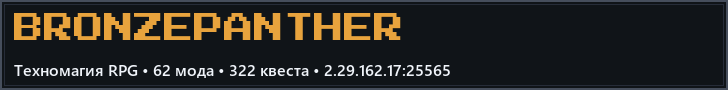
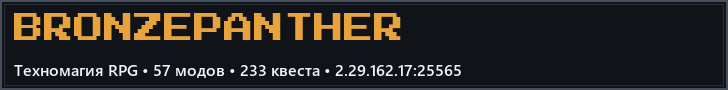
Синхронизация с 1.3.4: 57 модов, 233 квеста, Mekanism

Changed region(s): [[0.272, 0.7111, 0.6346, 0.8444], [0.2115, 0.7111, 0.2418, 0.8444]]

diff --git a/docs/index.html b/docs/index.html
@@ -4,9 +4,9 @@
 <meta charset="UTF-8">
 <meta name="viewport" content="width=device-width, initial-scale=1.0">
 <title>BronzePanther — сервер «Техномагия RPG»</title>
-<meta name="description" content="BronzePanther — сервер и сборка «Техномагия RPG»: магия, техника и 322 квеста на NeoForge. Лаунчер ставит всё сам, лицензия не нужна.">
+<meta name="description" content="BronzePanther — сервер и сборка «Техномагия RPG»: магия, техника и 233 квеста на NeoForge. Лаунчер ставит всё сам, лицензия не нужна.">
 <meta property="og:title" content="BronzePanther — сервер «Техномагия RPG»">
-<meta property="og:description" content="62 мода, 322 квеста, 20 глав. Thaumaturge, AE2, Powah, Draconic Evolution. Бесплатно, без лицензии.">
+<meta property="og:description" content="57 модов, 233 квеста, 19 глав. Thaumaturge, AE2, Powah, Mekanism. Бесплатно, без лицензии.">
 <meta property="og:image" content="https://bodia229.github.io/bronzepanther-launcher/assets/og-1200x630.png">
 <link rel="icon" href="assets/favicon-64.png">
 <style>
@@ -78,8 +78,8 @@ footer a{color:#c8d0dc}
 
 <section id="about">
   <h2>что это</h2>
-  <p>BronzePanther — наш сервер по сборке <b>«Техномагия RPG»</b>: магия и техника в одном мире, а путь игрока ведут 322 квеста в 20 главах. Начинался как сервер для своих на домашнем компьютере, теперь живёт на отдельном VPS и открыт для всех.</p>
-  <p>Здесь Thaumaturge с её аспектами и собственным измерением Outer Lands соседствует с Applied Energistics 2 и Powah, а в конце пути ждёт Draconic Evolution и Twilight Forest. Никакого доната — играем бесплатно, лицензия Minecraft не нужна: у проекта своя система аккаунтов со скинами.</p>
+  <p>BronzePanther — наш сервер по сборке <b>«Техномагия RPG»</b>: магия и техника в одном мире, а путь игрока ведут 233 квеста в 19 главах. Начинался как сервер для своих на домашнем компьютере, теперь живёт на отдельном VPS и открыт для всех.</p>
+  <p>Здесь Thaumaturge с её аспектами и собственным измерением Outer Lands соседствует с Applied Energistics 2 и Powah, а в конце пути ждёт Mekanism и Twilight Forest. Никакого доната — играем бесплатно, лицензия Minecraft не нужна: у проекта своя система аккаунтов со скинами.</p>
   <div class="btns">
     <a class="btn" href="https://github.com/bodia229/bronzepanther-launcher/releases/latest">скачать лаунчер (windows)</a>
     <a class="btn sec" href="https://mcsrvstat.us/server/2.29.162.17:25565" target="_blank" rel="noopener">статус сервера</a>
@@ -98,21 +98,22 @@ footer a{color:#c8d0dc}
 
 <section id="mods">
   <h2>состав сборки</h2>
-  <p>Сборка «Техномагия RPG» 1.3.3: <b>62 мода</b>, <b>322 квеста</b>, <b>20 глав</b>. Minecraft 26.1.2, NeoForge.</p>
+  <p>Сборка «Техномагия RPG» 1.3.4: <b>57 модов</b>, <b>233 квеста</b>, <b>19 глав</b>. Minecraft 26.1.2, NeoForge.</p>
   <table>
     <tr><th>магия</th><td>Thaumaturge (аспекты, исследования, измерение Outer Lands), Applied Thaumaturge</td></tr>
-    <tr><th>технологии</th><td>Applied Energistics 2 + ExtendedAE, AdvancedAE, беспроводные терминалы; Powah + Advanced Powah; Industrial Neo; Draconic Evolution</td></tr>
-    <tr><th>rpg</th><td>атрибуты и деревья навыков (Puffish Skills), 322 квеста с русскими руководствами</td></tr>
+    <tr><th>технологии</th><td>Applied Energistics 2 + ExtendedAE, AdvancedAE, беспроводные терминалы; Powah + Advanced Powah; Industrial Neo; Mekanism</td></tr>
+    <tr><th>rpg</th><td>атрибуты и деревья навыков (Puffish Skills), 233 квеста с русскими руководствами</td></tr>
     <tr><th>миры</th><td>Twilight Forest с боссами, переработанные Незер и Энд, Outer Lands</td></tr>
     <tr><th>удобства</th><td>рюкзаки Sophisticated, карты Xaero (мини-карта и карта мира), JEI, сортировка инвентаря</td></tr>
     <tr><th>графика</th><td>шейдеры Iris + BSL; Sodium, Lithium, ImmediatelyFast — плавно даже на слабых ПК</td></tr>
   </table>
-  <div class="note">Часть модов — собственные: bronzepanther-core, appliedthaumaturge, industrial. Они и делают сборку нашей.</div>
+  <div class="note">Часть модов — собственные: bronzepanther-core, appliedthaumaturge, industrial, bronzepanther-mekanism-emi. Они и делают сборку нашей.</div>
 </section>
 
 <section id="updates">
   <h2>обновления</h2>
   <table>
+    <tr><th>21.11.2026</th><td>1.3.4 — Mekanism и своя EMI-интеграция</td></tr>
     <tr><th>20.11.2026</th><td>1.3.3 — читаемые русские руководства</td></tr>
     <tr><th>19.11.2026</th><td>1.3.2 — русские руководства и рецепты EMI</td></tr>
     <tr><th>19.11.2026</th><td>1.3.1 — исправление рендера и BSL</td></tr>

diff --git a/README.md b/README.md
@@ -2,7 +2,7 @@
 
 Русскоязычная техномагическая RPG-сборка и сервер сообщества на NeoForge. Лаунчер ставит всё сам — Minecraft, Java 25, NeoForge и сборку из 62 модов — и сам подключает к серверу.
 
-**Сборка:** Техномагия RPG 1.3.3 · **62 мода** · **322 квеста** · **20 глав прогрессии** · Minecraft 26.1.2 · NeoForge 26.1.2.122
+**Сборка:** Техномагия RPG 1.3.4 · **57 модов** · **233 квеста** · **19 глав прогрессии** · Minecraft 26.1.2 · NeoForge 26.1.2.122
 
 **[⬇ Скачать лаунчер BronzePanther (Windows 10/11 x64)](https://github.com/bodia229/bronzepanther-launcher/releases/latest)** · [Все выпуски](https://github.com/bodia229/bronzepanther-launcher/releases) · [Страница проекта](https://bodia229.github.io/bronzepanther-launcher/)
 
@@ -29,10 +29,10 @@
 - **Applied Energistics 2** + ExtendedAE, AdvancedAE и беспроводные терминалы AE2WT;
 - **Powah** + Advanced Powah — энергия от простых генераторов до ядерных реакторов;
 - **Industrial Neo** — собственная индустриальная линейка сборки;
-- **Draconic Evolution** — эндгейм: реактор, драконья броня и инструменты.
+- **Mekanism** — эндгейм: реактор, драконья броня и инструменты.
 
 ### ⚔ RPG и прогрессия
-- **322 квеста в 20 главах** (FTB Quests) — путь от первых блоков до эндгейма, с русскими руководствами в игре;
+- **233 квеста в 19 главах** (FTB Quests) — путь от первых блоков до эндгейма, с русскими руководствами в игре;
 - прокачка персонажа: атрибуты и деревья навыков (Puffish Skills);
 - **Twilight Forest** — отдельное измерение с боссами и данжами.
 
@@ -46,7 +46,7 @@ Sophisticated Backpacks, карты Xaero (мини-карта + карта ми
 
 | Сборка | Статус |
 |---|---|
-| Техномагия RPG 1.3.3 | ✅ Доступна — 62 мода, 322 квеста, 20 глав |
+| Техномагия RPG 1.3.4 | ✅ Доступна — 57 модов, 233 квеста, 19 глав |
 | Индустрия | 🔜 Скоро |
 | Приключения | 🔜 Скоро |
 
@@ -73,7 +73,7 @@ Sophisticated Backpacks, карты Xaero (мини-карта + карта ми
 
 ## English
 
-**BronzePanther • TechnoMagic RPG** — a Russian-language tech-magic RPG modpack and community server on NeoForge. 62 mods, 322 quests across 20 chapters: Thaumaturge magic (with its own Outer Lands dimension), AE2, Powah, Industrial Neo, Draconic Evolution, Twilight Forest and RPG character progression. The launcher installs Minecraft, Java 25 and the pack automatically, and connects to the server on its own. Free to play, no Minecraft license required.
+**BronzePanther • TechnoMagic RPG** — a Russian-language tech-magic RPG modpack and community server on NeoForge. 57 mods, 233 quests across 19 chapters: Thaumaturge magic (with its own Outer Lands dimension), AE2, Powah, Industrial Neo, Mekanism, Twilight Forest and RPG character progression. The launcher installs Minecraft, Java 25 and the pack automatically, and connects to the server on its own. Free to play, no Minecraft license required.
 
 ## Отказ от ответственности
 
